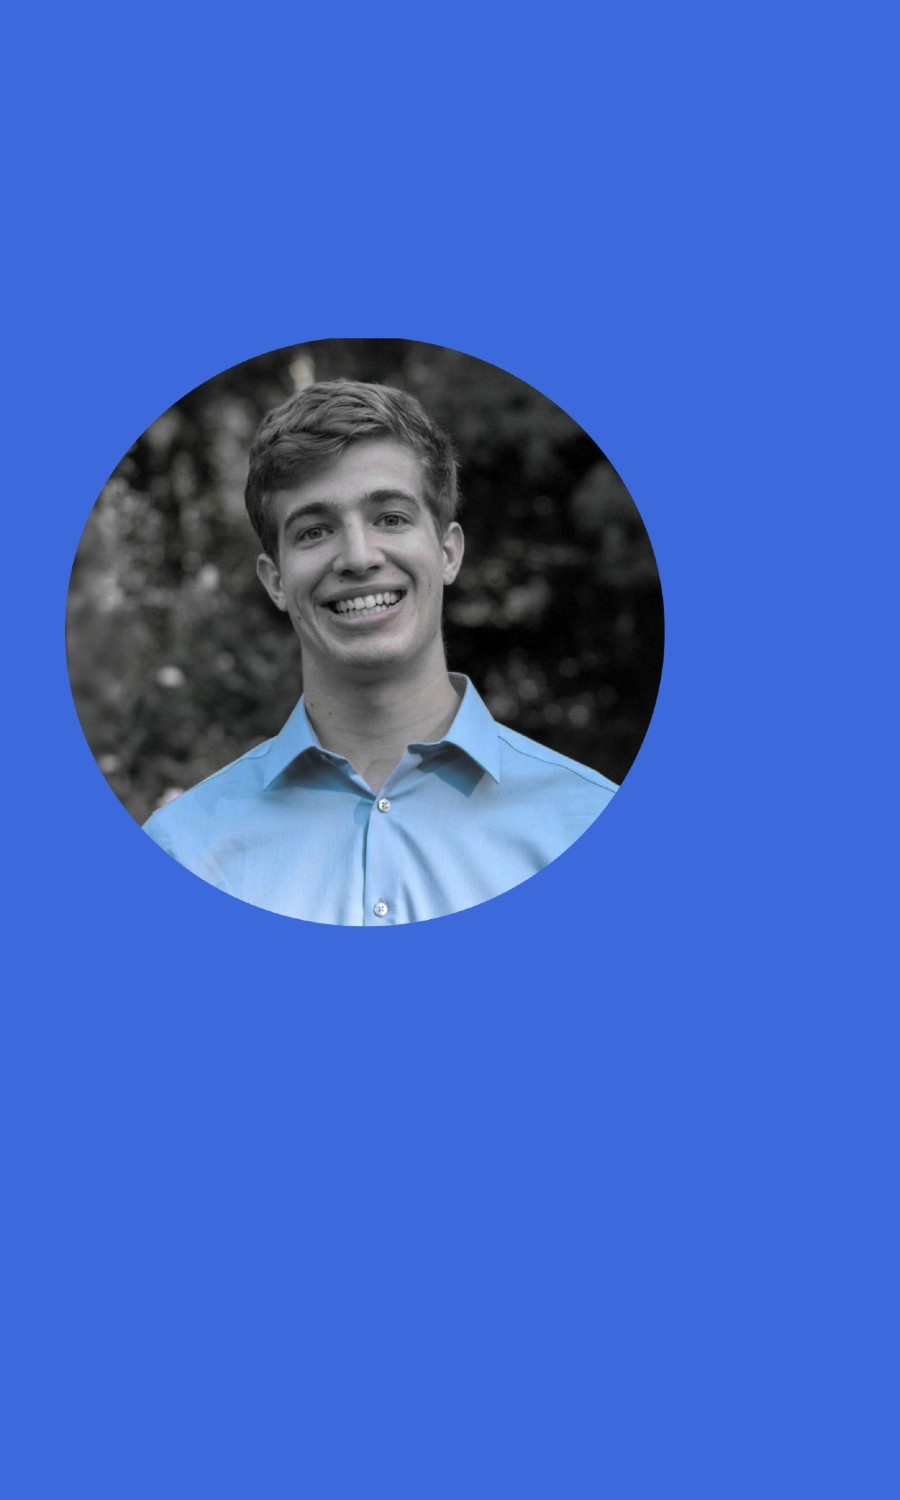
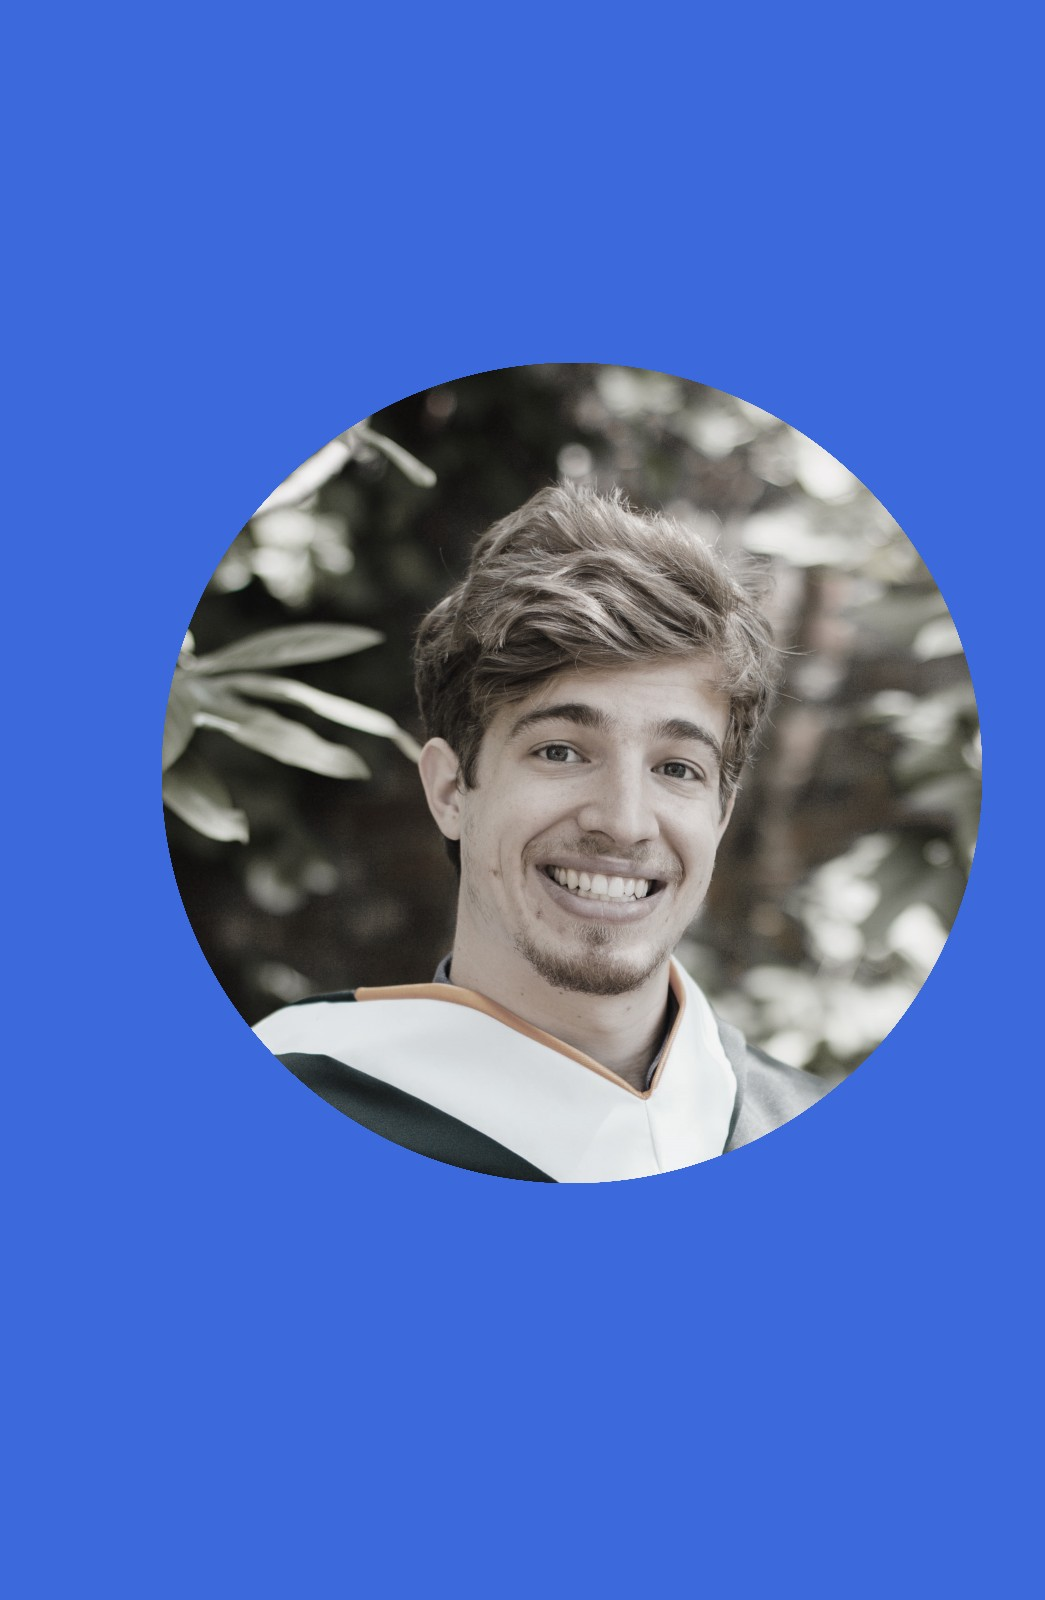
update background and personal intro

diff --git a/index.html b/index.html
@@ -80,9 +80,8 @@
                 <section class="content" id="about">
                     <div class="block-content">
                         <h3 class="block-title">About Me</h3>
-                        <h3 class="subheading"> I'm currently a senior at Princeton, studying Math/CS and doing ML
-                            research.</h3>
-                        <h5 class="subheading"> I will be joining Berkeley EECS in Fall 2021 for the PhD program!</h5>
+                        <h3 class="subheading"> I am a first-year PhD student in EECS at UC Berkeley, advised by Prof. Yi Ma.</h3>
+                        <h5 class="subheading"> My research focuses on mathematical and geometric approaches to learning high-dimensional data supported near low-dimensional manifolds.</h5>
                         <!-- <p>Yadda Yadda</p> -->
                         <div class="info-list row">
                             <div class="col-sm-6"><span>Name : </span> Michael P. Psenka</div>
